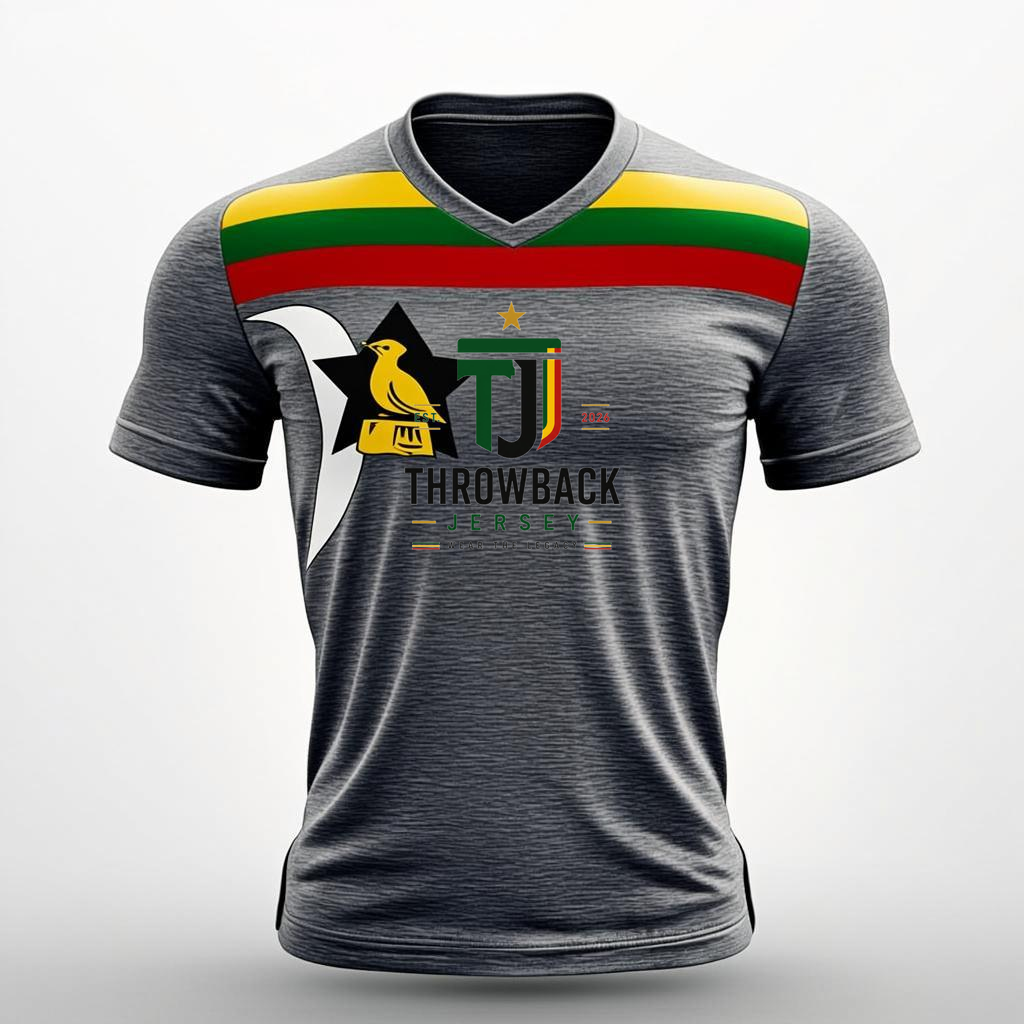
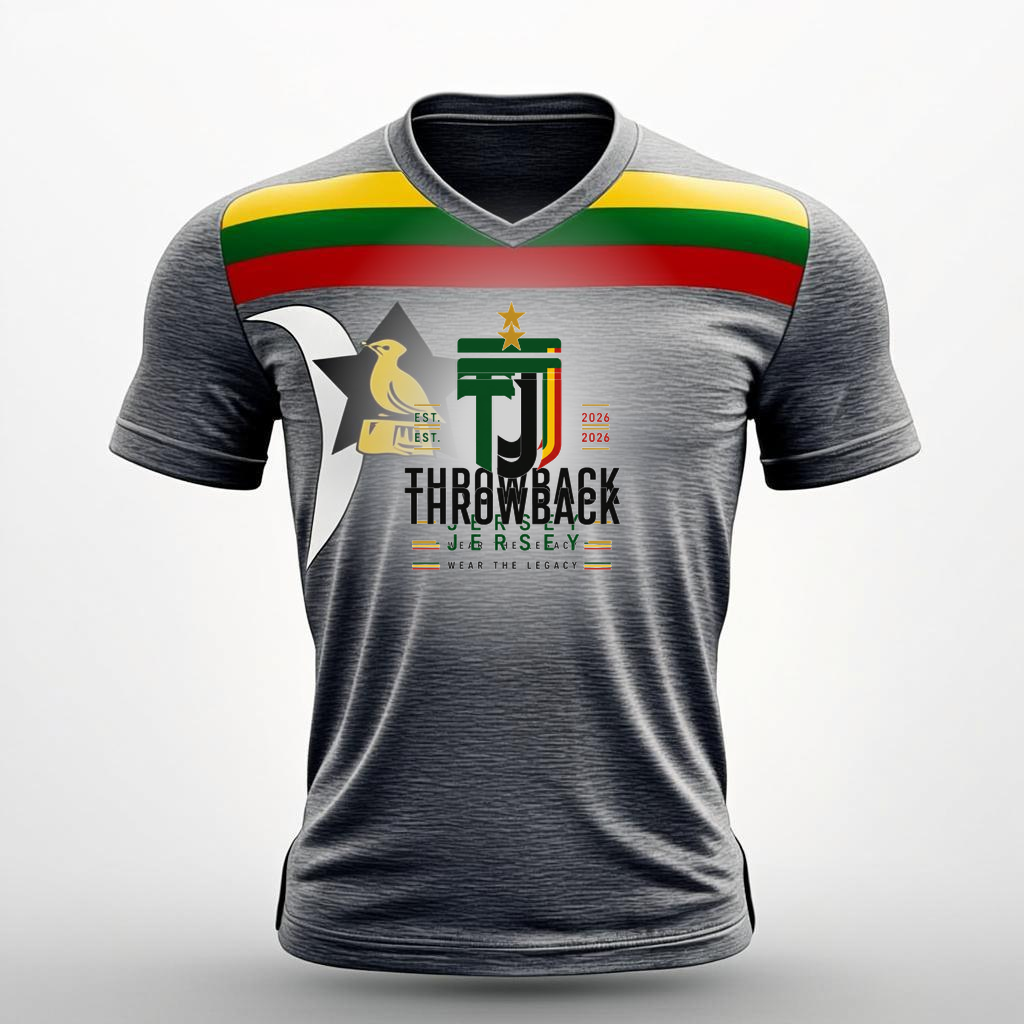
8d6ec121-1950-4c57-ada9-1e09dc6eece5

Changed region(s): [[0.3125, 0.1875, 0.6875, 0.625]]

diff --git a/scripts/clean_and_apply_logo.py b/scripts/clean_and_apply_logo.py
@@ -1,0 +1,103 @@
+#!/usr/bin/env python3
+"""
+Generate clean jersey product images (no AI emblem) and overlay the real TJ logo.
+
+Approach:
+1. For each existing jersey image, we'll cover the center area where the AI emblem sits
+   with a patch matching the jersey color (so we don't need to regenerate images).
+2. Then overlay the real TJ logo on top of the patched area.
+
+This is faster than regenerating all 8 jerseys and keeps consistency.
+"""
+import os
+from PIL import Image, ImageFilter, ImageEnhance
+
+IMG_DIR = "/home/z/my-project/public/images"
+LOGO = "/home/z/my-project/public/images/logo-transparent.png"
+
+# (filename, jersey_color_rgb, patch_size_fraction_of_width, patch_y_center_fraction)
+JERSEYS = [
+    ("product-jersey-grey.png",   (210, 210, 210), 0.42, 0.42),
+    ("product-jersey-green.png",  (50, 110, 70),   0.42, 0.42),
+    ("product-jersey-black.png",  (35, 35, 35),    0.42, 0.42),
+    ("product-jersey-yellow.png", (220, 180, 50),  0.42, 0.42),
+    ("product-jersey-red.png",    (150, 40, 40),   0.42, 0.42),
+    ("product-jersey-white.png",  (245, 245, 245), 0.42, 0.42),
+    ("product-jersey-navy.png",   (35, 50, 90),    0.42, 0.42),
+    ("product-jersey-maroon.png", (90, 30, 30),    0.42, 0.42),
+    ("banner-jersey.png",         (210, 210, 210), 0.32, 0.50),
+    ("product-jersey-folded.png", (210, 210, 210), 0.35, 0.50),
+]
+
+
+def patch_and_overlay(filename: str, color: tuple, patch_w_frac: float, y_frac: float) -> None:
+    path = os.path.join(IMG_DIR, filename)
+    img = Image.open(path).convert("RGBA")
+    w, h = img.size
+
+    # 1. Create a soft elliptical patch matching the jersey color to cover the AI emblem.
+    # We use an ellipse to blend more naturally with the chest area.
+    patch_w = int(w * patch_w_frac)
+    patch_h = int(patch_w * 1.15)  # slightly taller
+    patch = Image.new("RGBA", (patch_w, patch_h), (0, 0, 0, 0))
+
+    # Draw an ellipse with a subtle gradient (more opaque in center, soft edges)
+    cx, cy = patch_w // 2, patch_h // 2
+    max_r = min(cx, cy)
+    for y in range(patch_h):
+        for x in range(patch_w):
+            dx = (x - cx) / cx
+            dy = (y - cy) / cy
+            d = (dx * dx + dy * dy) ** 0.5
+            if d < 1.0:
+                # alpha falls off near edges
+                alpha = int(255 * min(1.0, (1.0 - d) * 1.3))
+                # add a little noise for fabric-like texture
+                noise = ((x * 7 + y * 13) % 17) - 8
+                r = max(0, min(255, color[0] + noise))
+                g = max(0, min(255, color[1] + noise))
+                b = max(0, min(255, color[2] + noise))
+                patch.putpixel((x, y), (r, g, b, alpha))
+
+    # Slight blur on patch edges
+    patch = patch.filter(ImageFilter.GaussianBlur(radius=4))
+
+    # 2. Position patch centered on chest
+    pos_x = (w - patch_w) // 2
+    pos_y = int(h * y_frac) - (patch_h // 2)
+
+    # 3. Composite patch onto the jersey
+    img.alpha_composite(patch, (pos_x, pos_y))
+
+    # 4. Load and resize the real TJ logo
+    logo = Image.open(LOGO).convert("RGBA")
+    logo_w = int(w * 0.30)  # logo width as 30% of jersey width
+    logo_ratio = logo.height / logo.width
+    logo_h = int(logo_w * logo_ratio)
+    resized_logo = logo.resize((logo_w, logo_h), Image.LANCZOS)
+
+    # 5. Position logo centered on chest
+    logo_x = (w - logo_w) // 2
+    logo_y = int(h * y_frac) - (logo_h // 2)
+
+    # 6. Composite logo on top
+    img.alpha_composite(resized_logo, (logo_x, logo_y))
+
+    # 7. Convert to RGB and save (overwrite original)
+    final = img.convert("RGB")
+    final.save(path, "PNG", optimize=True)
+    print(f"Cleaned + applied logo -> {filename}")
+
+
+def main() -> None:
+    for filename, color, patch_frac, y_frac in JERSEYS:
+        path = os.path.join(IMG_DIR, filename)
+        if not os.path.exists(path):
+            print(f"Skip (missing): {filename}")
+            continue
+        patch_and_overlay(filename, color, patch_frac, y_frac)
+    print("\nAll jerseys cleaned and re-applied with the real TJ logo!")
+
+
+if __name__ == "__main__":
+    main()

diff --git a/scripts/apply_logo_only.py b/scripts/apply_logo_only.py
@@ -1,0 +1,57 @@
+#!/usr/bin/env python3
+"""
+Apply ONLY the real TJ logo to the freshly regenerated clean jerseys.
+No patching needed — jerseys are now blank.
+"""
+import os
+from PIL import Image
+
+IMG_DIR = "/home/z/my-project/public/images"
+LOGO = "/home/z/my-project/public/images/logo-transparent.png"
+
+# (filename, logo_width_fraction, y_center_fraction)
+JERSEYS = [
+    ("product-jersey-grey.png",   0.30, 0.44),
+    ("product-jersey-green.png",  0.30, 0.44),
+    ("product-jersey-black.png",  0.30, 0.44),
+    ("product-jersey-yellow.png", 0.30, 0.44),
+    ("product-jersey-red.png",    0.30, 0.44),
+    ("product-jersey-white.png",  0.30, 0.44),
+    ("product-jersey-navy.png",   0.30, 0.44),
+    ("product-jersey-maroon.png", 0.30, 0.44),
+    ("banner-jersey.png",         0.32, 0.50),
+    ("product-jersey-folded.png", 0.34, 0.50),
+]
+
+
+def apply_logo(filename: str, w_frac: float, y_frac: float) -> None:
+    path = os.path.join(IMG_DIR, filename)
+    base = Image.open(path).convert("RGBA")
+    w, h = base.size
+
+    logo = Image.open(LOGO).convert("RGBA")
+    logo_w = int(w * w_frac)
+    logo_h = int(logo_w * logo.height / logo.width)
+    logo = logo.resize((logo_w, logo_h), Image.LANCZOS)
+
+    pos_x = (w - logo_w) // 2
+    pos_y = int(h * y_frac) - (logo_h // 2)
+
+    base.alpha_composite(logo, (pos_x, pos_y))
+    final = base.convert("RGB")
+    final.save(path, "PNG", optimize=True)
+    print(f"✓ {filename}")
+
+
+def main() -> None:
+    for fn, wf, yf in JERSEYS:
+        p = os.path.join(IMG_DIR, fn)
+        if not os.path.exists(p):
+            print(f"Skip (missing): {fn}")
+            continue
+        apply_logo(fn, wf, yf)
+    print("\nDone — all jerseys now have ONLY the real TJ logo!")
+
+
+if __name__ == "__main__":
+    main()
